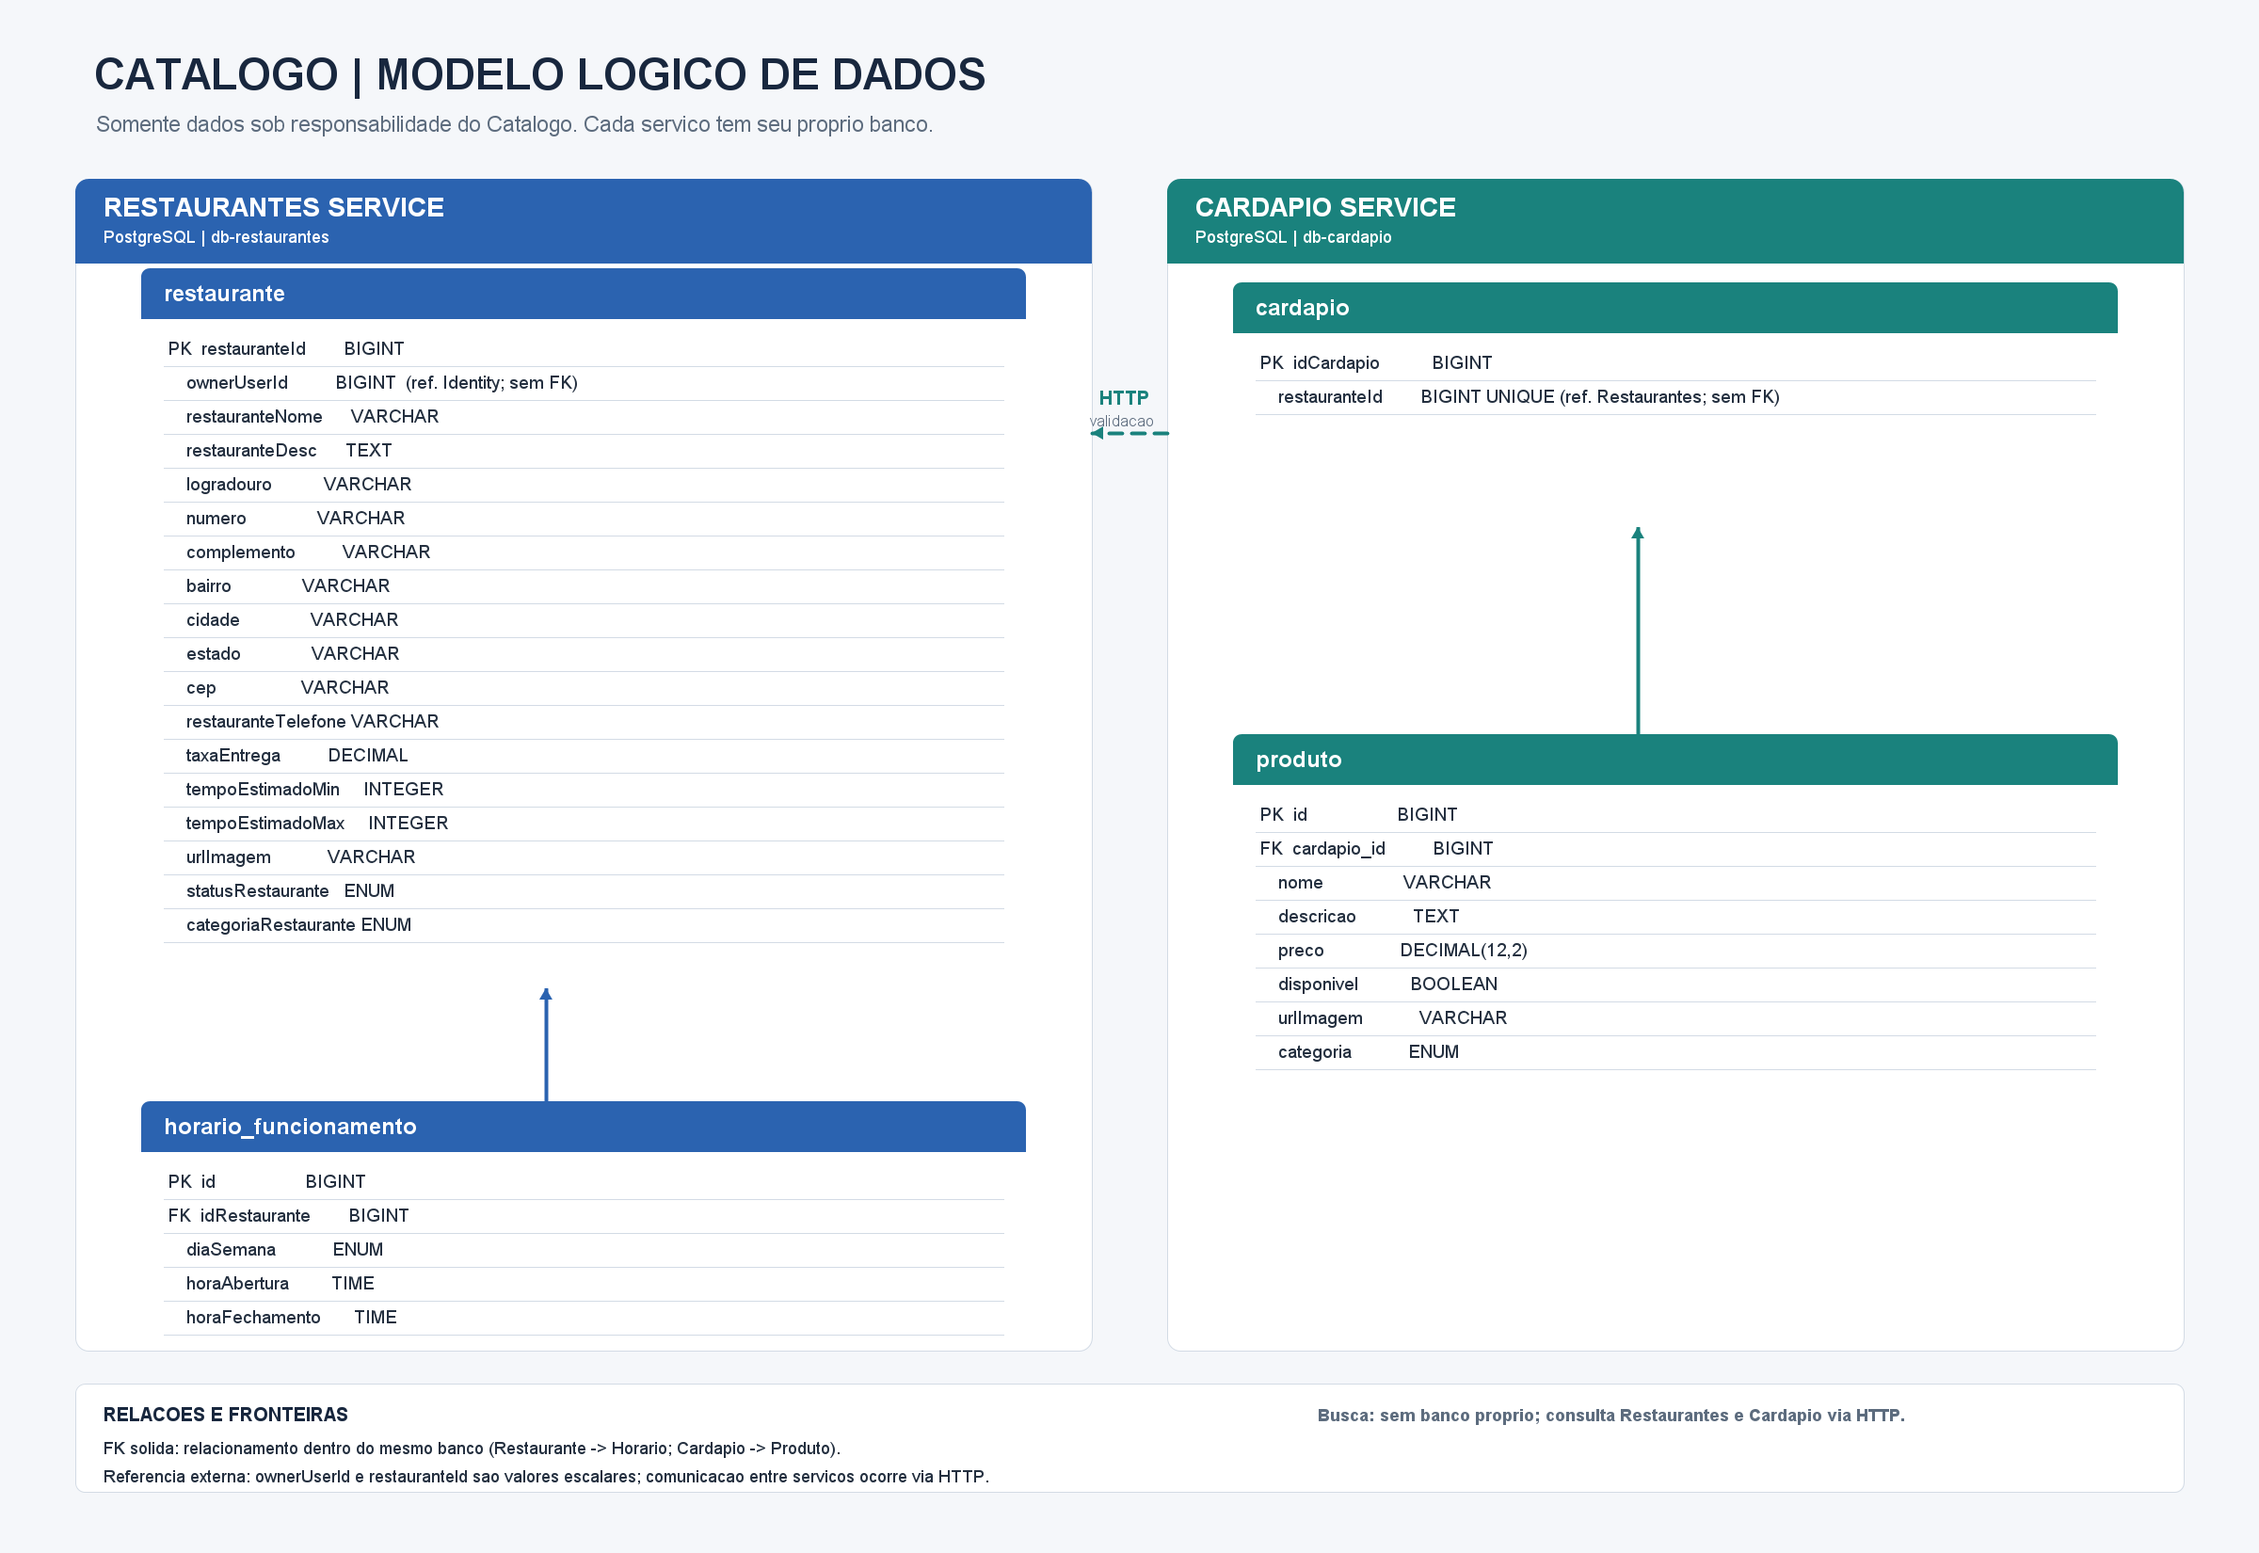
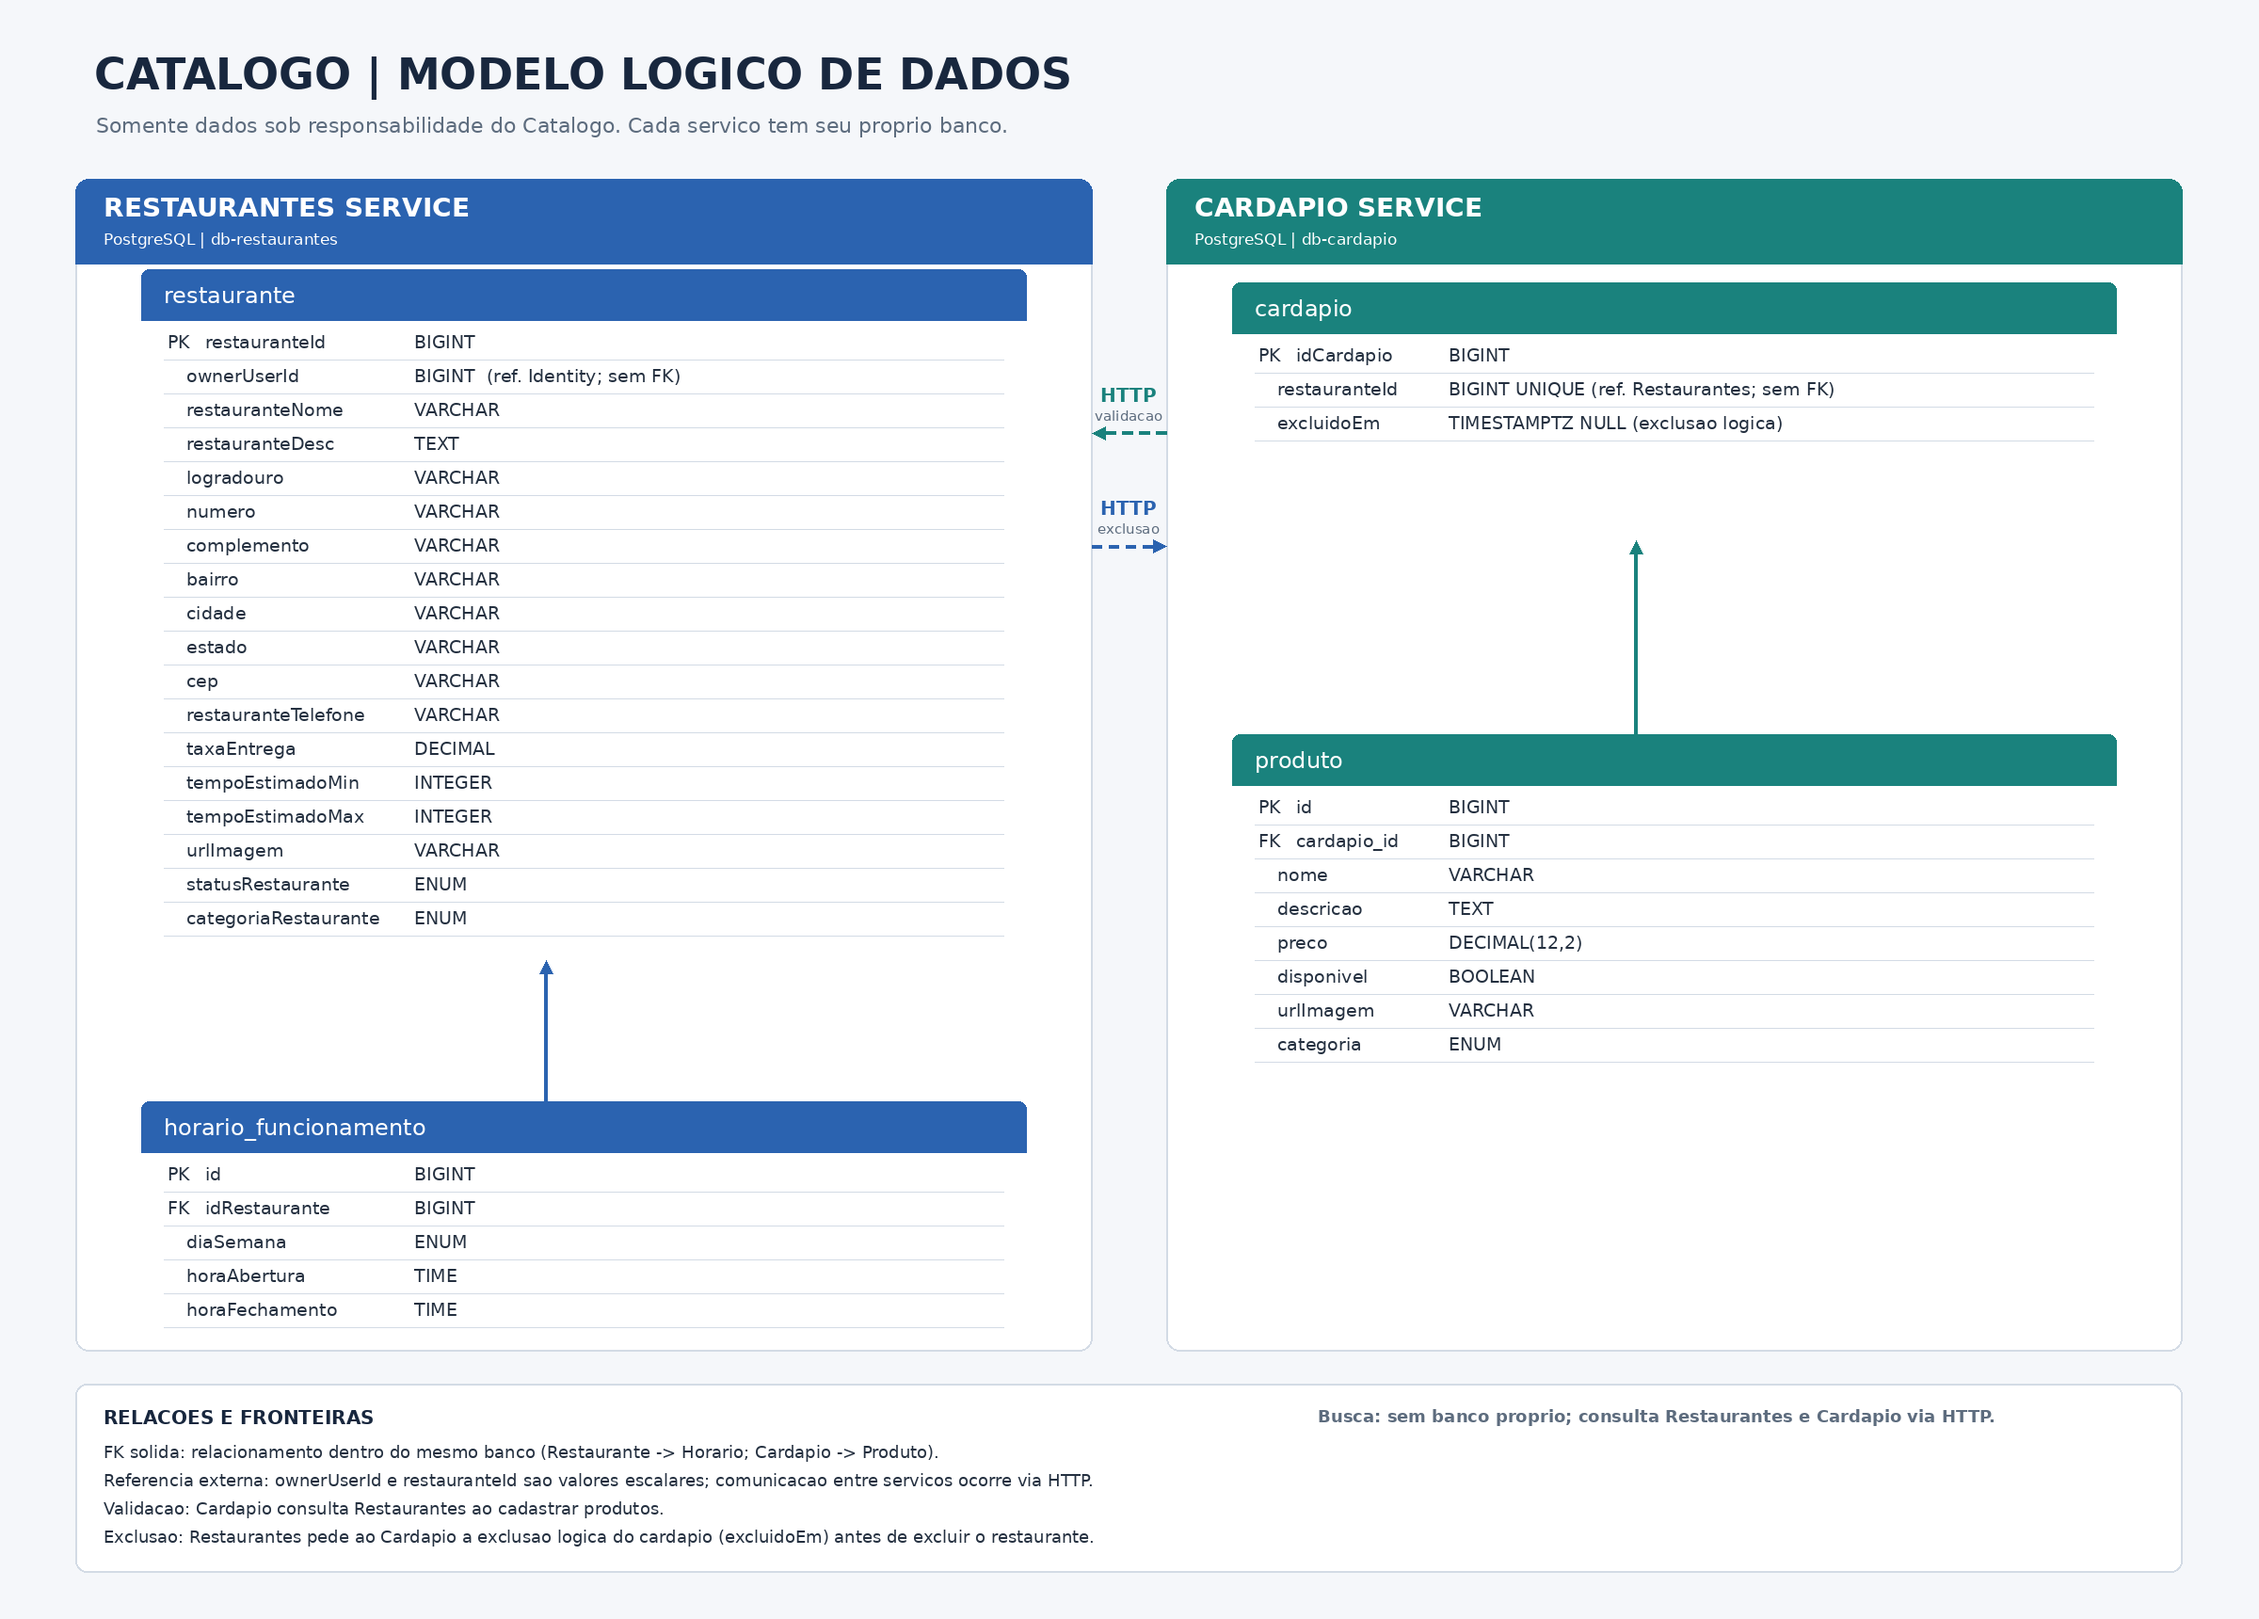
merge: atualiza issue22 com a dev e resolve conflitos

diff --git a/restaurantes-service/src/test/java/br/upe/catalogosdelivery/restaurantes/services/RestauranteServiceTest.java b/restaurantes-service/src/test/java/br/upe/catalogosdelivery/restaurantes/services/RestauranteServiceTest.java
@@ -3,6 +3,9 @@ package br.upe.catalogosdelivery.restaurantes.services;
 import br.upe.catalogosdelivery.common.excecoes.RecursoNaoEncontradoException;
 import br.upe.catalogosdelivery.common.excecoes.ServicoIndisponivelException;
 import br.upe.catalogosdelivery.restaurantes.clients.CardapioClient;
+import br.upe.catalogosdelivery.restaurantes.entities.DTOs.RestauranteDTO;
+import br.upe.catalogosdelivery.restaurantes.entities.Enums.CategoriaRestaurante;
+import br.upe.catalogosdelivery.restaurantes.entities.Enums.StatusRestaurante;
 import br.upe.catalogosdelivery.restaurantes.repositories.RestauranteRepo;
 import org.junit.jupiter.api.Test;
 import org.junit.jupiter.api.extension.ExtendWith;
@@ -10,7 +13,10 @@ import org.mockito.InOrder;
 import org.mockito.InjectMocks;
 import org.mockito.Mock;
 import org.mockito.junit.jupiter.MockitoExtension;
+import org.springframework.http.HttpStatus;
+import org.springframework.web.server.ResponseStatusException;
 
+import static org.junit.jupiter.api.Assertions.assertEquals;
 import static org.junit.jupiter.api.Assertions.assertThrows;
 import static org.mockito.ArgumentMatchers.any;
 import static org.mockito.Mockito.doThrow;
@@ -31,6 +37,18 @@ class RestauranteServiceTest {
 
     @InjectMocks
     RestauranteService restauranteService;
+
+    @Test
+    void cadastroSemOwnerUserIdRetorna400SemSalvar() {
+        RestauranteDTO semDono = new RestauranteDTO("Pizzaria", null, null, null, null, null, "Recife", "PE",
+                null, null, 5f, null, null, null, null, StatusRestaurante.ABERTO, CategoriaRestaurante.PIZZARIA);
+
+        ResponseStatusException e = assertThrows(ResponseStatusException.class,
+                () -> restauranteService.cadastrarRestaurante(semDono));
+
+        assertEquals(HttpStatus.BAD_REQUEST, e.getStatusCode());
+        verify(restauranteRepo, never()).save(any());
+    }
 
     @Test
     void excluiOCardapioAntesDoRestaurante() {

diff --git a/restaurantes-service/src/main/java/br/upe/catalogosdelivery/restaurantes/services/RestauranteService.java b/restaurantes-service/src/main/java/br/upe/catalogosdelivery/restaurantes/services/RestauranteService.java
@@ -8,7 +8,9 @@ import br.upe.catalogosdelivery.restaurantes.entities.Restaurante;
 import br.upe.catalogosdelivery.restaurantes.mappers.RestauranteMapper;
 import br.upe.catalogosdelivery.restaurantes.repositories.RestauranteRepo;
 import org.springframework.beans.factory.annotation.Autowired;
+import org.springframework.http.HttpStatus;
 import org.springframework.stereotype.Service;
+import org.springframework.web.server.ResponseStatusException;
 
 import java.util.List;
 
@@ -26,6 +28,13 @@ public class RestauranteService {
 
 
     public Restaurante cadastrarRestaurante(RestauranteDTO dto){
+        // ownerUserId é obrigatório no banco; sem esta checagem o erro viraria 500.
+        // Quando a #31 integrar o JWT, ele passará a vir do `sub` do token.
+        if (dto.ownerUserId() == null) {
+            throw new ResponseStatusException(HttpStatus.BAD_REQUEST,
+                    "Informe ownerUserId (identificador do dono do restaurante).");
+        }
+
         Restaurante restaurante = restauranteMapper.toEntity(dto);
 
         // O cardápio agora pertence ao serviço de Cardápio, que o cria no primeiro
